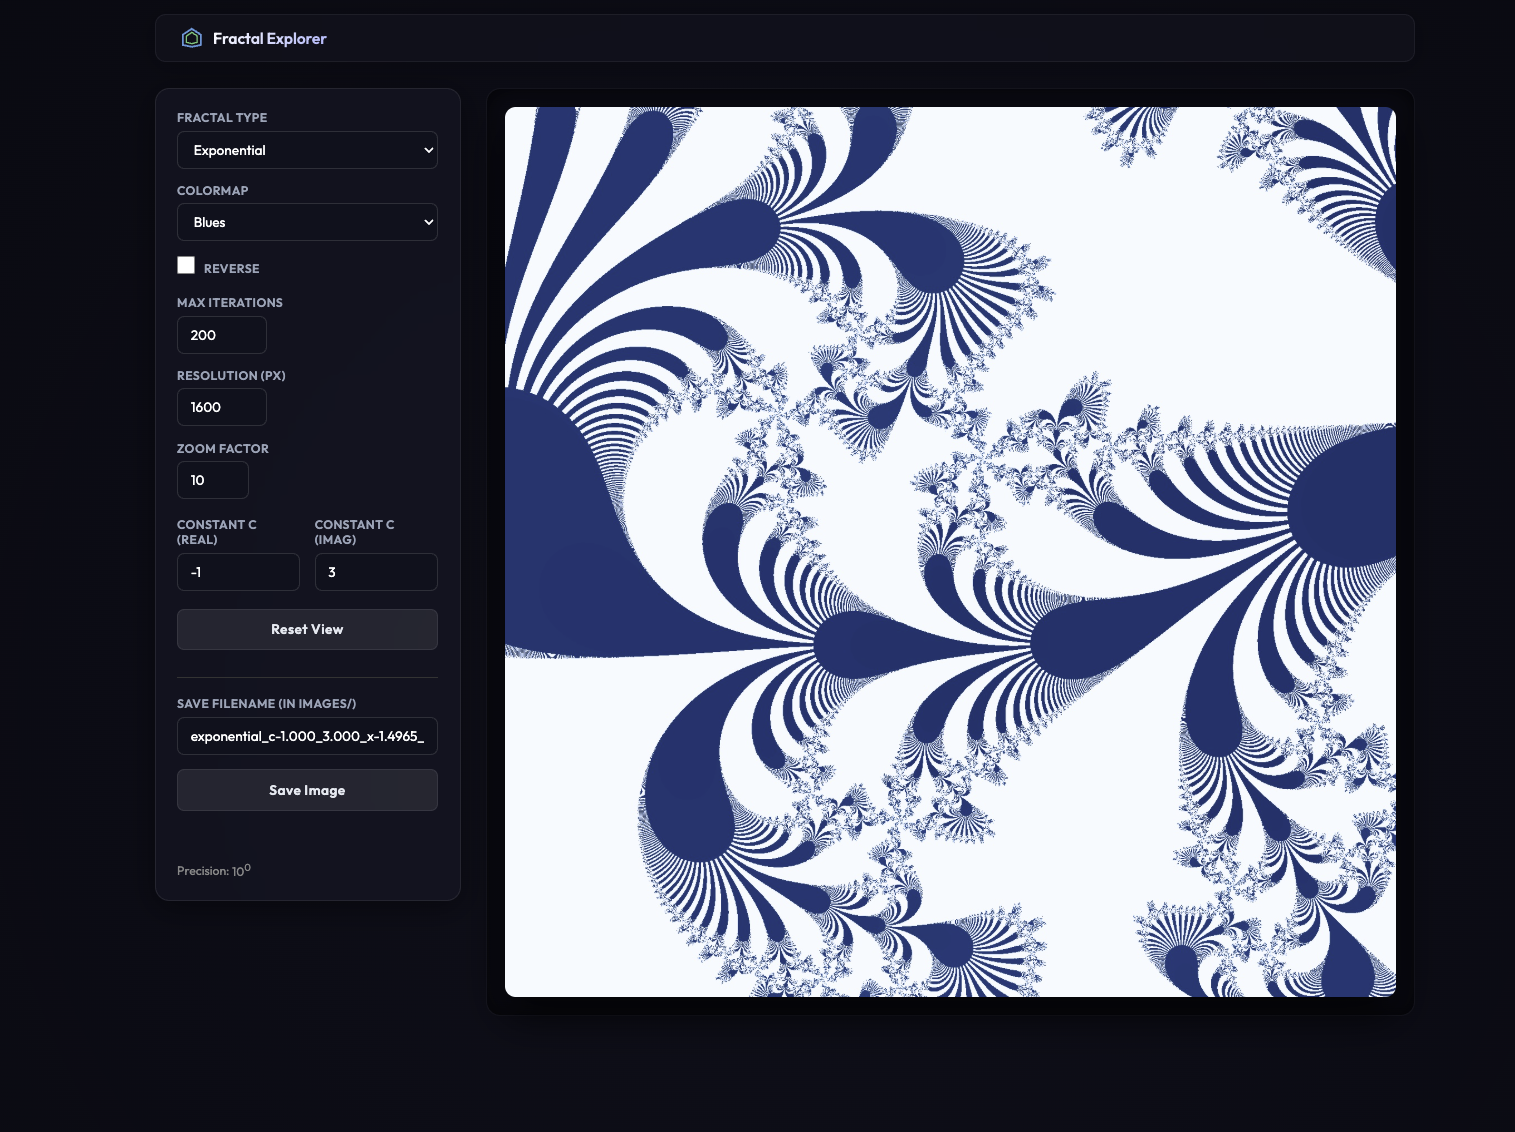
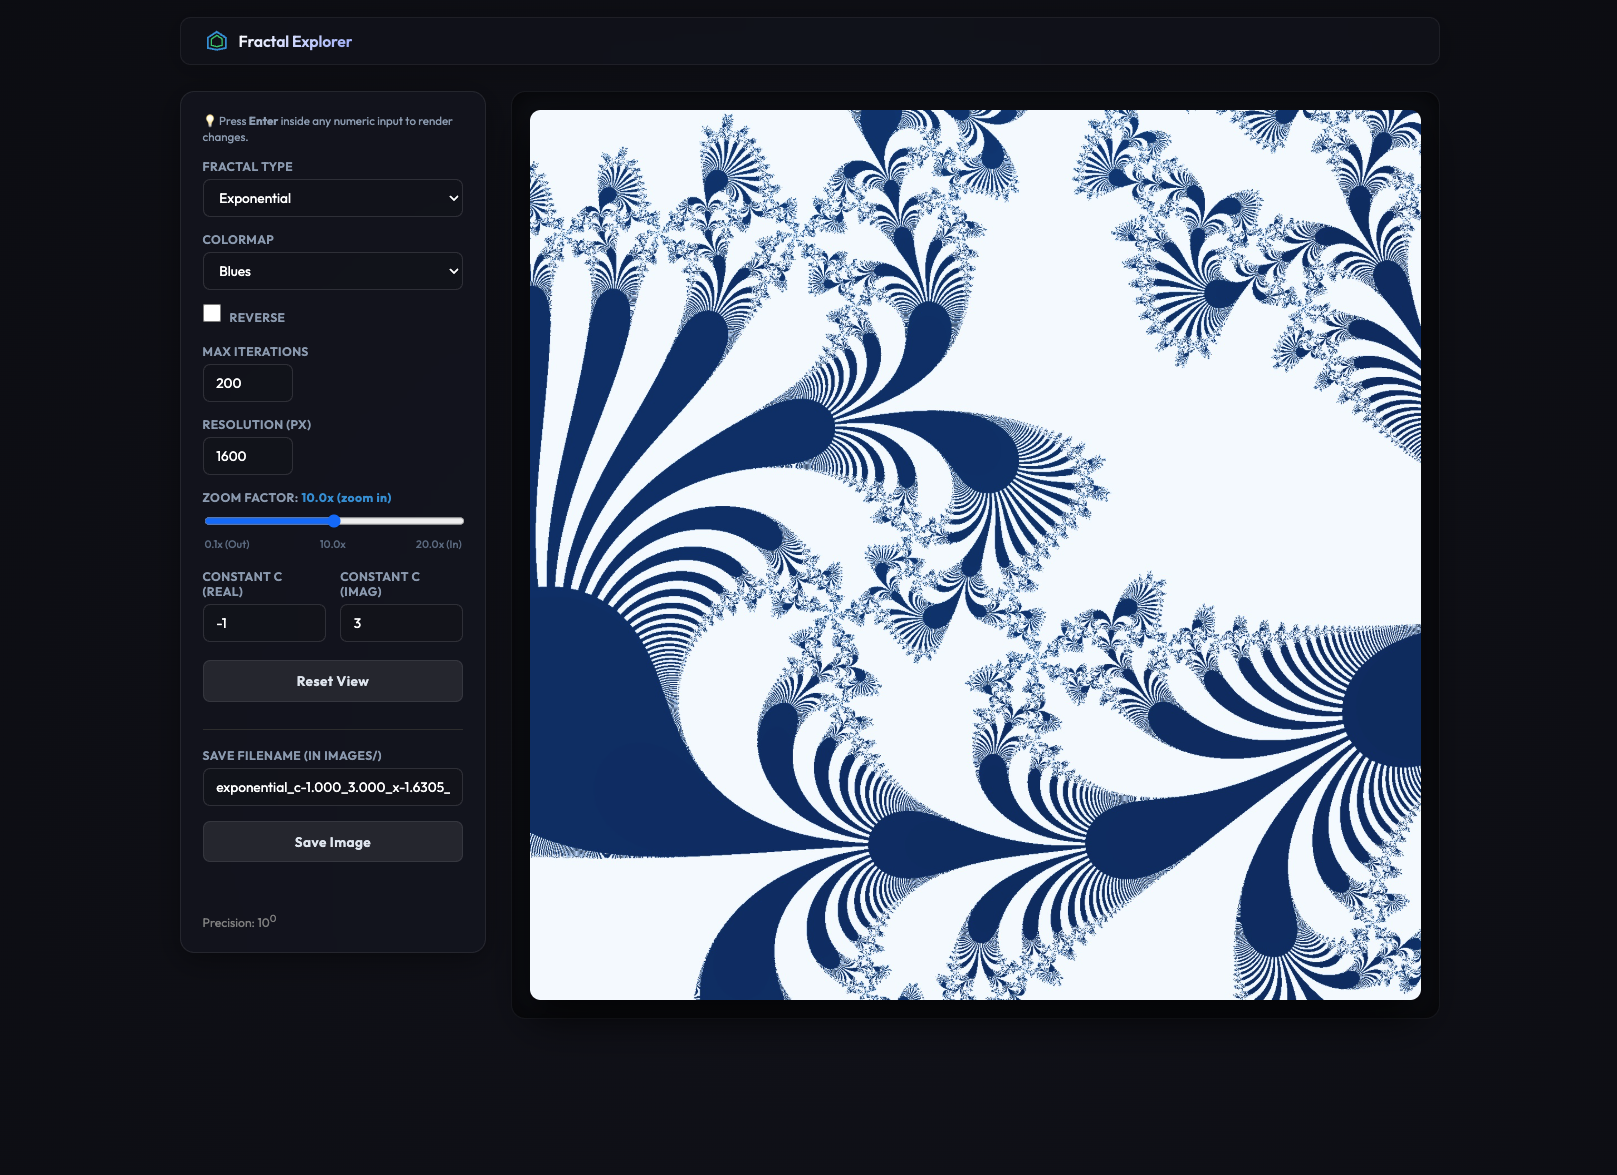
integrate zoom factor slider and numeric scale legend

diff --git a/src/fractal_mcp/app/static/script.js b/src/fractal_mcp/app/static/script.js
@@ -22,6 +22,19 @@ const newtonParams = document.getElementById('newton-params');
 const saveFilenameInput = document.getElementById('saveFilename');
 const saveBtn = document.getElementById('saveBtn');
 const saveStatus = document.getElementById('saveStatus');
+const zoomFactorInput = document.getElementById('zoomFactor');
+const zoomValLabel = document.getElementById('zoomVal');
+
+function updateZoomLabel(value) {
+    const val = parseFloat(value);
+    if (val < 1.0) {
+        zoomValLabel.textContent = `${val.toFixed(1)}x (zoom out)`;
+    } else if (val === 1.0) {
+        zoomValLabel.textContent = `1.0x (no zoom)`;
+    } else {
+        zoomValLabel.textContent = `${val.toFixed(1)}x (zoom in)`;
+    }
+}
 
 /**
  * Sync the internal 'state' object with values from the UI.
@@ -204,6 +217,8 @@ function resetView() {
     document.getElementById('c_real').value = -0.7;
     document.getElementById('c_imag').value = 0.27;
     document.getElementById('power').value = 3.0;
+    zoomFactorInput.value = 10.0;
+    updateZoomLabel(10.0);
 
     updateUI(true);
 }
@@ -333,6 +348,10 @@ document.getElementById('resetBtn').onclick = resetView;
             updateUI(true);
         }
     });
+});
+
+zoomFactorInput.addEventListener('input', (e) => {
+    updateZoomLabel(e.target.value);
 });
 
 // Initial load

diff --git a/src/fractal_mcp/app/static/index.html b/src/fractal_mcp/app/static/index.html
@@ -19,6 +19,9 @@
 
     <div class="container">
         <div class="controls">
+            <div class="row" style="font-size: 0.8rem; color: #94a3b8; margin-bottom: -5px; line-height: 1.4;">
+                <span>💡 Press <strong>Enter</strong> inside any numeric input to render changes.</span>
+            </div>
             <div class="row">
                 <div class="control-group">
                     <label>Fractal Type</label>
@@ -63,8 +66,13 @@
                 </div>
 
                 <div class="control-group">
-                    <label>Zoom Factor</label>
-                    <input type="number" id="zoomFactor" value="10" step="0.5" min="1.1" style="width: 80px;">
+                    <label>Zoom Factor: <span id="zoomVal" style="color: #3498db; font-weight: bold; text-transform: lowercase;">10.0x (zoom in)</span></label>
+                    <input type="range" id="zoomFactor" min="0.1" max="20.0" step="0.1" value="10.0" style="margin-top: 4px; width: 100%;">
+                    <div style="display: flex; justify-content: space-between; font-size: 0.75rem; color: #64748b; margin-top: 2px; padding: 0 2px; font-weight: 500;">
+                        <span>0.1x (Out)</span>
+                        <span>10.0x</span>
+                        <span>20.0x (In)</span>
+                    </div>
                 </div>
             </div>
 

diff --git a/src/fractal_mcp/app/static/styles.css b/src/fractal_mcp/app/static/styles.css
@@ -331,3 +331,13 @@ button.secondary:hover {
         min-height: 450px;
     }
 }
+
+/* Disable browser spinners on numeric input fields */
+input[type="number"]::-webkit-outer-spin-button,
+input[type="number"]::-webkit-inner-spin-button {
+    -webkit-appearance: none;
+    margin: 0;
+}
+input[type="number"] {
+    -moz-appearance: textfield;
+}